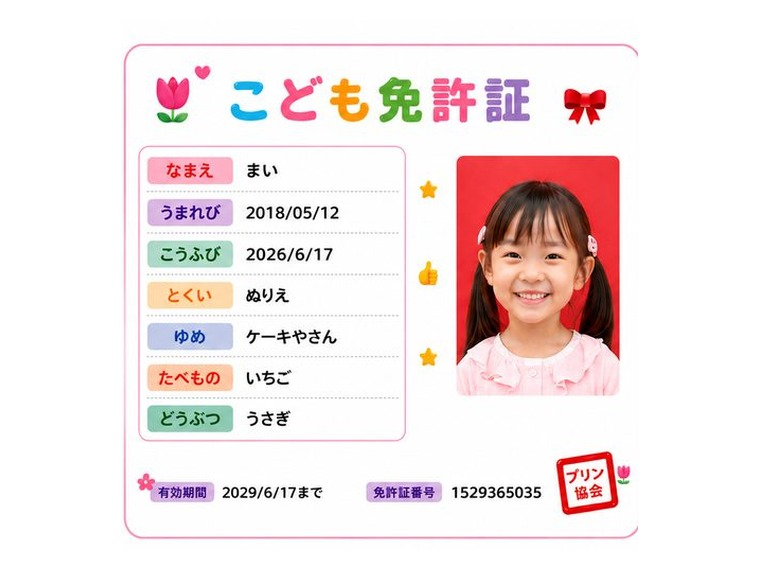
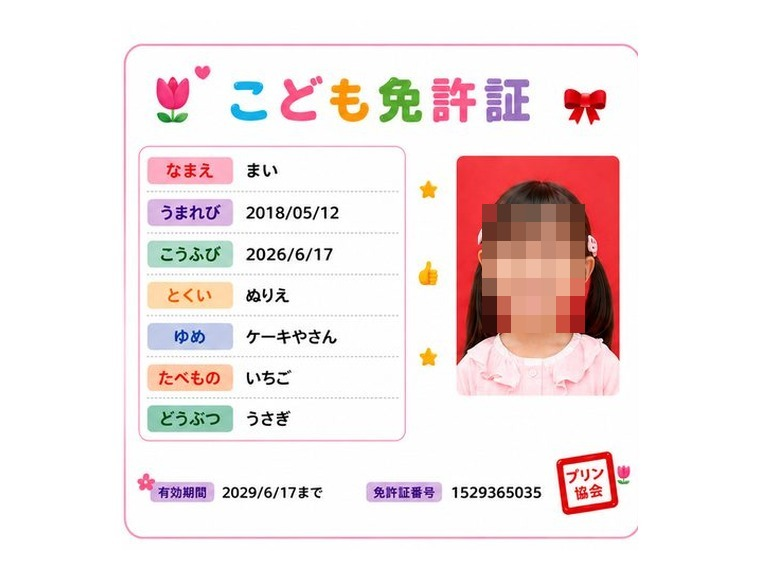
HP: 住所と取引先社名を非掲載にし、対応地域を全国に統一・お子様の顔をモザイク化
住所の削除
- 全4ページのフッターと問い合わせ欄から所在地を削除し「大阪発／全国どこでも対応」に
- 構造化データの address を削除し @type を LocalBusiness → Organization に変更

取引先社名の非掲載
- 実績欄の「導入・取引先（一例）」チップ4社名を削除（業種カテゴリ6件は維持）
- seal.html の社名記載を「通信キャリアショップや大型商業施設」に置換
- 写真キャプションは業種表現のまま（既対応）

対応地域
- 「関西・北陸ほか全国」→「全国どこでも対応」に統一

お子様の顔のモザイク
- license.jpg / klp.jpg / klp-license.jpg の免許証見本の顔を検出しモザイク処理
- 髪や服は残し、商品見本として成立する範囲に限定

価格は表・カード・見積りシミュレーターの3箇所とも ¥90,000 で一致済みであることを確認

Changed region(s): [[0.6355, 0.3579, 0.7868, 0.5965]]

diff --git a/site/seal.html b/site/seal.html
@@ -537,12 +537,12 @@ footer{background:var(--navy);color:rgb(255 255 255 / .7);padding:34px 0 30px;fo
       <a href="index.html#contact" class="btn btn-primary nav-cta">相談する</a>
     </nav>
   </div>
-</header><div class="wrap crumb"><a href="index.html">ホーム</a> ／ <a href="index.html#contents">体験コンテンツ</a> ／ シールデコ ワークショップ</div><section class="dhero"><div class="wrap dhero-grid"><div class="reveal"><span class="kick">SEAL DECO</span><h1><span class="nb">シールデコ</span> <span class="nb">ワークショップ</span></h1><p class="lead">星やハートの型と丸型カプセル、好みのスパンコールを組み合わせ、振ると中で揺れる“シャカシャカ”シールを制作するワークショップです。</p><div class="keypts"><div><b></b>振ると中で揺れるキラキラの“シャカシャカ”シール</div><div><b></b>パーツを選んで組み合わせる、唯一無二のデザイン</div><div><b></b>6畳〜の省スペース・着座 約25分で商談タイムも</div><div><b></b>その場で完成、当日お持ち帰り</div></div><a href="index.html#contact" class="btn btn-blue">相談・お見積り</a></div><div class="dphoto reveal"><img src="images/seal.jpg" alt="シールデコ ワークショップ" loading="lazy"></div></div></section><section class="tint"><div class="wrap"><div class="sec-head reveal"><span class="kick">PROCESS</span><h2>制作の流れ（全5工程・約25分）</h2><p>「こだわりを選ぶ」工程が集中を生み、テンポの良い5分×5工程設計。</p></div><div class="steps reveal"><div class="pstep"><div class="n">1</div><b>材料選び</b><p>ビーズやスパンコールを選ぶ</p></div><div class="pstep"><div class="n">2</div><b>封入</b><p>カプセル内にパーツを投入</p></div><div class="pstep"><div class="n">3</div><b>接着</b><p>接着剤を塗り、固定準備</p></div><div class="pstep"><div class="n">4</div><b>ラインストーン</b><p>飾りを散らす</p></div><div class="pstep"><div class="n">5</div><b>仕上げ</b><p>背面にテープを貼り完成</p></div></div></div></section><section><div class="wrap"><div class="sec-head reveal"><span class="kick">RECORD</span><h2>開催実績</h2><p>楽天モバイル・ドコモなど、通信キャリアの店頭イベントで多数開催しています。</p></div><div class="gallery contain reveal"><figure><img src="images/event-seal.svg" alt="ふにふにシール作り体験会 告知"><figcaption>シールデコ ワークショップ（通信キャリア店頭）</figcaption></figure><figure><img src="images/seal.jpg" alt="シールデコ 制作イメージ"><figcaption>制作イメージ（シャカシャカシール）</figcaption></figure></div></div></section><section class="tint"><div class="wrap"><div class="sec-head reveal"><span class="kick">POINT</span><h2>シールデコの特長</h2></div><div class="specbox reveal"><div class="specbox"><div><b>シャカシャカシール</b>振ると中が揺れる、キラキラのオリジナルシール</div><div><b>はさみ不要</b>道具を使わないので小さなお子様も安心</div><div><b>省スペース・着座</b>6畳程度から。着座20分で待ち時間対策に</div><div><b>当日持ち帰り</b>その場で完成、すぐにお持ち帰りいただけます</div></div></div></div></section><section><div class="wrap"><div class="sec-head reveal"><span class="kick">SPEC</span><h2>会場でできる？スペック</h2><p>いずれも目安です。会場条件により変動しますので、まずはご相談ください。</p></div><div class="reveal"><div class="spacehl"><svg class="sh-ic" viewBox="0 0 24 24" fill="none" stroke="currentColor" stroke-width="2.2" stroke-linecap="round" stroke-linejoin="round"><path d="M15 3h6v6M9 21H3v-6M21 3l-7 7M3 21l7-7"/></svg><div class="sh-main"><div class="sh-t">SPACE ／ 必要スペース</div><div class="sh-v">6畳〜</div></div><div class="sh-n">道具不要・着座で楽しめる省スペース設計。テーブル＋イスがあれば店内スペースにも設置できます。屋内向き。</div></div><div class="specbox"><div><b>対象年齢</b>3歳〜</div><div><b>所要時間</b>約20〜25分・1組</div><div><b>実施人数目安</b>応相談</div><div><b>推奨スタッフ</b>1〜2名</div><div><b>工程</b>全5工程</div><div><b>電源</b>不要</div><div><b>屋内外</b>屋内向き</div></div></div></div></section><section><div class="wrap"><div class="sec-head reveal"><span class="kick">PRICE</span><h2>料金</h2></div><div class="pricebar reveal"><div><div class="p">¥90,000<small>／日（税別）</small></div><div style="font-size:13px;color:var(--ink-soft);margin-top:6px">所要 約25分／組・全5工程／6畳程度から</div></div><a href="index.html#price" class="btn btn-primary">見積りシミュレーター</a></div><p class="note">※機材レンタル費用（税別）。運営スタッフ費・送料は別途。配送料は実費でご請求します。</p></div></section><section class="blue-sec"><div class="wrap" style="text-align:center"><span class="kick">CONTACT</span><h2 style="margin:12px 0 10px">このコンテンツで相談する</h2><p style="color:rgb(255 255 255/.9);margin-bottom:22px">会場の広さ・想定来場者数・ご予算をお聞かせください。日程未定でもOKです。</p><a href="index.html#contact" class="btn btn-primary">相談・お見積りへ</a></div></section><section class="tint"><div class="wrap"><div class="sec-head reveal"><span class="kick">OTHER</span><h2>ほかの体験コンテンツ</h2></div><div class="rel reveal"><a href="klp.html"><img src="images/klp.jpg" alt="キッズライセンスパーク"><span><b>キッズライセンスパーク</b><span>EVカー運転体験＋こども免許証</span></span></a><a href="punilab.html"><img src="images/punilab-paw.jpg" alt="ぷにラボ｜スクイーズ工作"><span><b>ぷにラボ｜スクイーズ工作</b><span>肉球＆アニマル型でぷにぷに制作</span></span></a></div></div></section><footer>
+</header><div class="wrap crumb"><a href="index.html">ホーム</a> ／ <a href="index.html#contents">体験コンテンツ</a> ／ シールデコ ワークショップ</div><section class="dhero"><div class="wrap dhero-grid"><div class="reveal"><span class="kick">SEAL DECO</span><h1><span class="nb">シールデコ</span> <span class="nb">ワークショップ</span></h1><p class="lead">星やハートの型と丸型カプセル、好みのスパンコールを組み合わせ、振ると中で揺れる“シャカシャカ”シールを制作するワークショップです。</p><div class="keypts"><div><b></b>振ると中で揺れるキラキラの“シャカシャカ”シール</div><div><b></b>パーツを選んで組み合わせる、唯一無二のデザイン</div><div><b></b>6畳〜の省スペース・着座 約25分で商談タイムも</div><div><b></b>その場で完成、当日お持ち帰り</div></div><a href="index.html#contact" class="btn btn-blue">相談・お見積り</a></div><div class="dphoto reveal"><img src="images/seal.jpg" alt="シールデコ ワークショップ" loading="lazy"></div></div></section><section class="tint"><div class="wrap"><div class="sec-head reveal"><span class="kick">PROCESS</span><h2>制作の流れ（全5工程・約25分）</h2><p>「こだわりを選ぶ」工程が集中を生み、テンポの良い5分×5工程設計。</p></div><div class="steps reveal"><div class="pstep"><div class="n">1</div><b>材料選び</b><p>ビーズやスパンコールを選ぶ</p></div><div class="pstep"><div class="n">2</div><b>封入</b><p>カプセル内にパーツを投入</p></div><div class="pstep"><div class="n">3</div><b>接着</b><p>接着剤を塗り、固定準備</p></div><div class="pstep"><div class="n">4</div><b>ラインストーン</b><p>飾りを散らす</p></div><div class="pstep"><div class="n">5</div><b>仕上げ</b><p>背面にテープを貼り完成</p></div></div></div></section><section><div class="wrap"><div class="sec-head reveal"><span class="kick">RECORD</span><h2>開催実績</h2><p>通信キャリアショップや大型商業施設の店頭イベントで、多数開催しています。</p></div><div class="gallery contain reveal"><figure><img src="images/event-seal.svg" alt="ふにふにシール作り体験会 告知"><figcaption>シールデコ ワークショップ（通信キャリア店頭）</figcaption></figure><figure><img src="images/seal.jpg" alt="シールデコ 制作イメージ"><figcaption>制作イメージ（シャカシャカシール）</figcaption></figure></div></div></section><section class="tint"><div class="wrap"><div class="sec-head reveal"><span class="kick">POINT</span><h2>シールデコの特長</h2></div><div class="specbox reveal"><div class="specbox"><div><b>シャカシャカシール</b>振ると中が揺れる、キラキラのオリジナルシール</div><div><b>はさみ不要</b>道具を使わないので小さなお子様も安心</div><div><b>省スペース・着座</b>6畳程度から。着座20分で待ち時間対策に</div><div><b>当日持ち帰り</b>その場で完成、すぐにお持ち帰りいただけます</div></div></div></div></section><section><div class="wrap"><div class="sec-head reveal"><span class="kick">SPEC</span><h2>会場でできる？スペック</h2><p>いずれも目安です。会場条件により変動しますので、まずはご相談ください。</p></div><div class="reveal"><div class="spacehl"><svg class="sh-ic" viewBox="0 0 24 24" fill="none" stroke="currentColor" stroke-width="2.2" stroke-linecap="round" stroke-linejoin="round"><path d="M15 3h6v6M9 21H3v-6M21 3l-7 7M3 21l7-7"/></svg><div class="sh-main"><div class="sh-t">SPACE ／ 必要スペース</div><div class="sh-v">6畳〜</div></div><div class="sh-n">道具不要・着座で楽しめる省スペース設計。テーブル＋イスがあれば店内スペースにも設置できます。屋内向き。</div></div><div class="specbox"><div><b>対象年齢</b>3歳〜</div><div><b>所要時間</b>約20〜25分・1組</div><div><b>実施人数目安</b>応相談</div><div><b>推奨スタッフ</b>1〜2名</div><div><b>工程</b>全5工程</div><div><b>電源</b>不要</div><div><b>屋内外</b>屋内向き</div></div></div></div></section><section><div class="wrap"><div class="sec-head reveal"><span class="kick">PRICE</span><h2>料金</h2></div><div class="pricebar reveal"><div><div class="p">¥90,000<small>／日（税別）</small></div><div style="font-size:13px;color:var(--ink-soft);margin-top:6px">所要 約25分／組・全5工程／6畳程度から</div></div><a href="index.html#price" class="btn btn-primary">見積りシミュレーター</a></div><p class="note">※機材レンタル費用（税別）。運営スタッフ費・送料は別途。配送料は実費でご請求します。</p></div></section><section class="blue-sec"><div class="wrap" style="text-align:center"><span class="kick">CONTACT</span><h2 style="margin:12px 0 10px">このコンテンツで相談する</h2><p style="color:rgb(255 255 255/.9);margin-bottom:22px">会場の広さ・想定来場者数・ご予算をお聞かせください。日程未定でもOKです。</p><a href="index.html#contact" class="btn btn-primary">相談・お見積りへ</a></div></section><section class="tint"><div class="wrap"><div class="sec-head reveal"><span class="kick">OTHER</span><h2>ほかの体験コンテンツ</h2></div><div class="rel reveal"><a href="klp.html"><img src="images/klp.jpg" alt="キッズライセンスパーク"><span><b>キッズライセンスパーク</b><span>EVカー運転体験＋こども免許証</span></span></a><a href="punilab.html"><img src="images/punilab-paw.jpg" alt="ぷにラボ｜スクイーズ工作"><span><b>ぷにラボ｜スクイーズ工作</b><span>肉球＆アニマル型でぷにぷに制作</span></span></a></div></div></section><footer>
   <div class="wrap foot">
     <div>
       <img src="images/logo.png" alt="株式会社NextVision">
       <div>キッズ体験イベントの企画・運営</div>
-      <div style="margin-top:10px;line-height:1.7">〒550-0014<br>大阪府大阪市西区北堀江1丁目23番25号<br>シティタワー堀江2501号室</div>
+      <div style="margin-top:10px;line-height:1.7">大阪発／全国どこでも対応</div>
     </div>
     <div style="text-align:right">
       <div><a href="tel:07013192126">070-1319-2126</a>　/　<a href="mailto:data@nextvision.fun">data@nextvision.fun</a></div>

diff --git a/site/index.html b/site/index.html
@@ -478,12 +478,10 @@ footer{background:var(--navy);color:rgb(255 255 255 / .7);padding:34px 0 30px;fo
 }
 </style>
 <script type="application/ld+json">
-{"@context":"https://schema.org","@type":"LocalBusiness","name":"株式会社NextVision","url":"https://nextvision.fun/",
+{"@context":"https://schema.org","@type":"Organization","name":"株式会社NextVision","url":"https://nextvision.fun/",
 "image":"https://nextvision.fun/images/klp.jpg",
 "description":"工作ワークショップと、こども免許証がもらえる運転体験「キッズライセンスパーク」を中心に、商業施設・店舗の集客イベントを企画・運営。設営〜運営代行まで対応。",
 "telephone":"+81-70-1319-2126","email":"data@nextvision.fun","areaServed":"JP",
-"address":{"@type":"PostalAddress","postalCode":"550-0014","addressRegion":"大阪府","addressLocality":"大阪市西区",
-"streetAddress":"北堀江1丁目23番25号 シティタワー堀江2501号室","addressCountry":"JP"},
 "openingHoursSpecification":{"@type":"OpeningHoursSpecification","dayOfWeek":["Monday","Tuesday","Wednesday","Thursday","Friday"],"opens":"09:30","closes":"18:00"}}
 </script>
 <script type="application/ld+json">
@@ -572,16 +570,9 @@ footer{background:var(--navy);color:rgb(255 255 255 / .7);padding:34px 0 30px;fo
       <div class="rz-cat">携帯キャリアイベント<small>MOBILE CARRIER</small></div>
       <div class="rz-cat">住宅展示場<small>HOUSING PARK</small></div>
 <div class="rz-cat">カーディーラー<small>CAR DEALER</small></div>
-<div class="rz-cat">関西・北陸ほか全国<small>NATIONWIDE</small></div>
+<div class="rz-cat">全国どこでも対応<small>NATIONWIDE</small></div>
     </div>
     <!-- ロゴ画像を入れる場合はここ（現在は上品にテキストチップで表示。公式ロゴ提供後に差し替え可能） -->
-    <p class="rz-brands-lead reveal">導入・取引先（一例）</p>
-    <div class="rz-brands reveal">
-      <span>NTTドコモ</span>
-      <span>ヨドバシカメラ</span>
-      <span>楽天モバイル</span>
-      <span>イオンモール</span>
-    </div>
     <div class="center-cta reveal"><a class="btn btn-primary" href="#contact">開催について相談する</a></div>
   </div>
 </section>
@@ -982,7 +973,7 @@ footer{background:var(--navy);color:rgb(255 255 255 / .7);padding:34px 0 30px;fo
           <a href="tel:07013192126"><span class="k">TEL</span><span class="v">070-1319-2126</span></a>
           <a href="mailto:data@nextvision.fun"><span class="k">MAIL</span><span class="v">data@nextvision.fun</span></a>
         </div>
-        <p class="hours">受付時間 平日 9:30 - 18:00<br>株式会社NextVision<br>〒550-0014 大阪府大阪市西区北堀江1丁目23番25号 シティタワー堀江2501号室</p>
+        <p class="hours">受付時間 平日 9:30 - 18:00<br>株式会社NextVision<br>大阪発／全国どこでも対応</p>
       </div>
       <form id="inquiry" class="reveal">
         <div class="field"><label>ご用件</label><div class="radios">
@@ -1019,7 +1010,7 @@ footer{background:var(--navy);color:rgb(255 255 255 / .7);padding:34px 0 30px;fo
     <div>
       <img src="images/logo.png" alt="株式会社NextVision">
       <div>キッズ体験イベントの企画・運営</div>
-      <div style="margin-top:10px;line-height:1.7">〒550-0014<br>大阪府大阪市西区北堀江1丁目23番25号<br>シティタワー堀江2501号室</div>
+      <div style="margin-top:10px;line-height:1.7">大阪発／全国どこでも対応</div>
     </div>
     <div style="text-align:right">
       <div><a href="tel:07013192126">070-1319-2126</a>　/　<a href="mailto:data@nextvision.fun">data@nextvision.fun</a></div>

diff --git a/site/klp.html b/site/klp.html
@@ -542,7 +542,7 @@ footer{background:var(--navy);color:rgb(255 255 255 / .7);padding:34px 0 30px;fo
     <div>
       <img src="images/logo.png" alt="株式会社NextVision">
       <div>キッズ体験イベントの企画・運営</div>
-      <div style="margin-top:10px;line-height:1.7">〒550-0014<br>大阪府大阪市西区北堀江1丁目23番25号<br>シティタワー堀江2501号室</div>
+      <div style="margin-top:10px;line-height:1.7">大阪発／全国どこでも対応</div>
     </div>
     <div style="text-align:right">
       <div><a href="tel:07013192126">070-1319-2126</a>　/　<a href="mailto:data@nextvision.fun">data@nextvision.fun</a></div>

diff --git a/site/punilab.html b/site/punilab.html
@@ -542,7 +542,7 @@ footer{background:var(--navy);color:rgb(255 255 255 / .7);padding:34px 0 30px;fo
     <div>
       <img src="images/logo.png" alt="株式会社NextVision">
       <div>キッズ体験イベントの企画・運営</div>
-      <div style="margin-top:10px;line-height:1.7">〒550-0014<br>大阪府大阪市西区北堀江1丁目23番25号<br>シティタワー堀江2501号室</div>
+      <div style="margin-top:10px;line-height:1.7">大阪発／全国どこでも対応</div>
     </div>
     <div style="text-align:right">
       <div><a href="tel:07013192126">070-1319-2126</a>　/　<a href="mailto:data@nextvision.fun">data@nextvision.fun</a></div>
